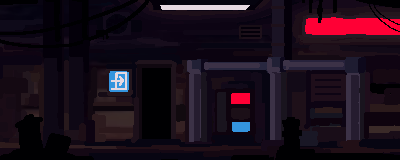
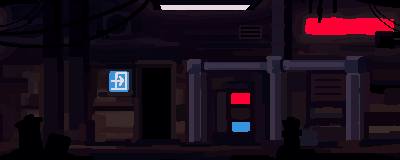
more background

diff --git a/Ball Game/Game.cpp b/Ball Game/Game.cpp
@@ -69,10 +69,10 @@ bool Game::Initialize()
 	mWorld->SetContactListener(mContact); // temp
 
 	Actor* bg = new Actor(this);
-	bg->LoadTex("Assets/bg/dark.png");
+	bg->LoadTex("Assets/bg/redline.png");
 	bg->SetPos(b2Vec2(12.f, -4.5f));
 	Actor* bg1 = new Actor(this);
-	bg1->LoadTex("Assets/bg/dark.png");
+	bg1->LoadTex("Assets/bg/redline.png");
 	bg1->SetPos(b2Vec2(37.f, -4.5f));
 
 	mPlayer = new Player(this);
@@ -126,7 +126,7 @@ void Game::ProcessInput()
 void Game::UpdateGame()
 {
 	// limit framerate (15 fps)
-	while (!SDL_TICKS_PASSED(SDL_GetTicks(), mTickCount + 20));
+	while (!SDL_TICKS_PASSED(SDL_GetTicks(), mTickCount + 16));
 	// get delta 
 	float delta = (SDL_GetTicks() - mTickCount) / 1000.f;
 	// clamp delta  value
